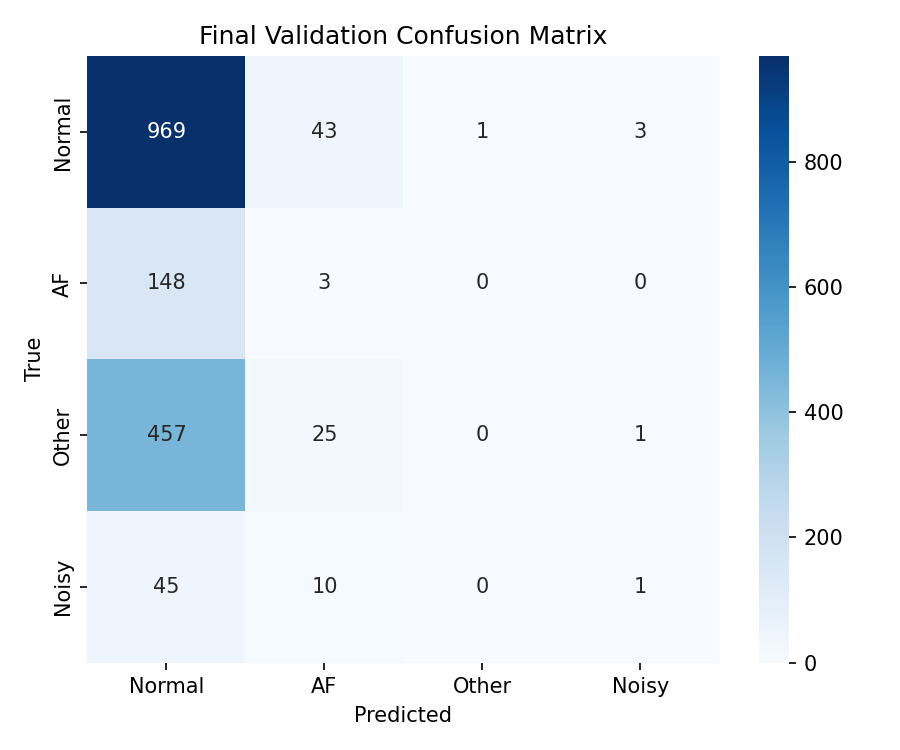
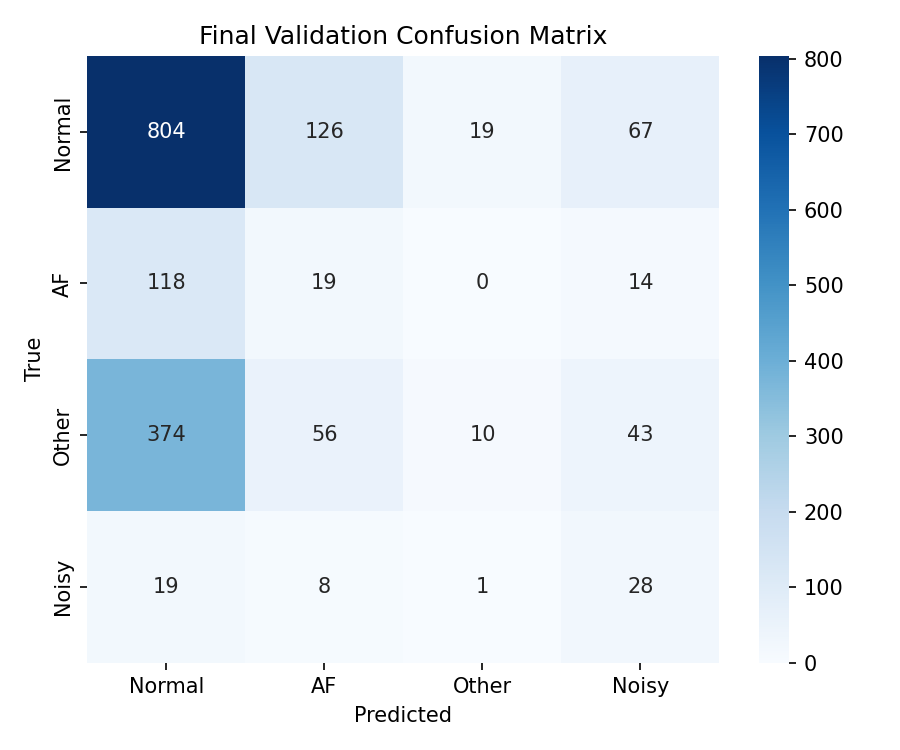
Refactor training model

diff --git a/main.py b/main.py
@@ -12,7 +12,7 @@ from torch.utils.data import DataLoader
 from sklearn.model_selection import train_test_split
 
 # Local imports
-from src.model.model import OneDSelfONN
+from src.model.model import OneDCNN
 from src.utils.log.manager import LoggerManager
 from src.utils.data.manager import DataManager, DatasetLoader
 from src.model.train import Trainer, InverseFrequencyClassWeighting
@@ -39,9 +39,9 @@ def main() -> Annotated[None, "This function does not return anything"]:
     config_path = "config/config.yaml"
     config = OmegaConf.load(config_path)
     device = config.device.type
-    batch_size = config.train.onedselfonn.training.batch
-    model = OneDSelfONN(config.train.onedselfonn.model).to(device)
-    trainer_config = config.train.onedselfonn.training
+    batch_size = config.train.onedcnn.training.batch
+    model = OneDCNN(config.train.onedcnn.model).to(device)
+    trainer_config = config.train.onedcnn.training
 
     # Initialize classes
     logger = LoggerManager(console_level=logging.INFO).get_logger()
